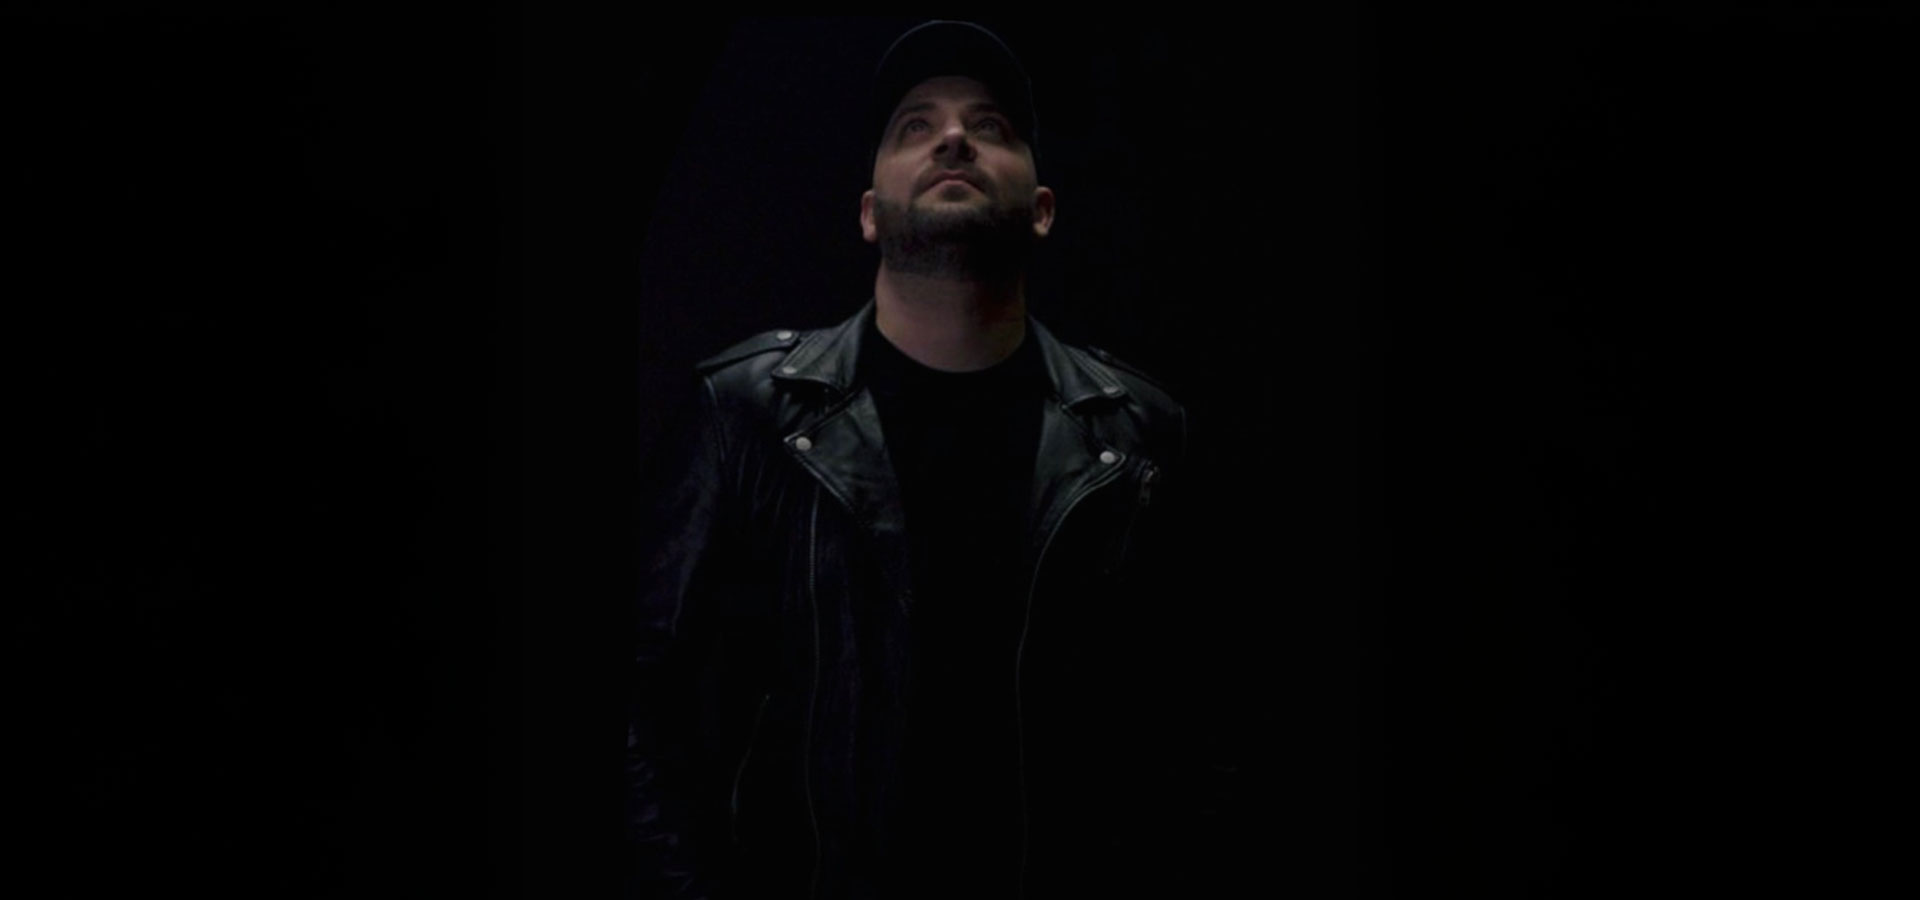
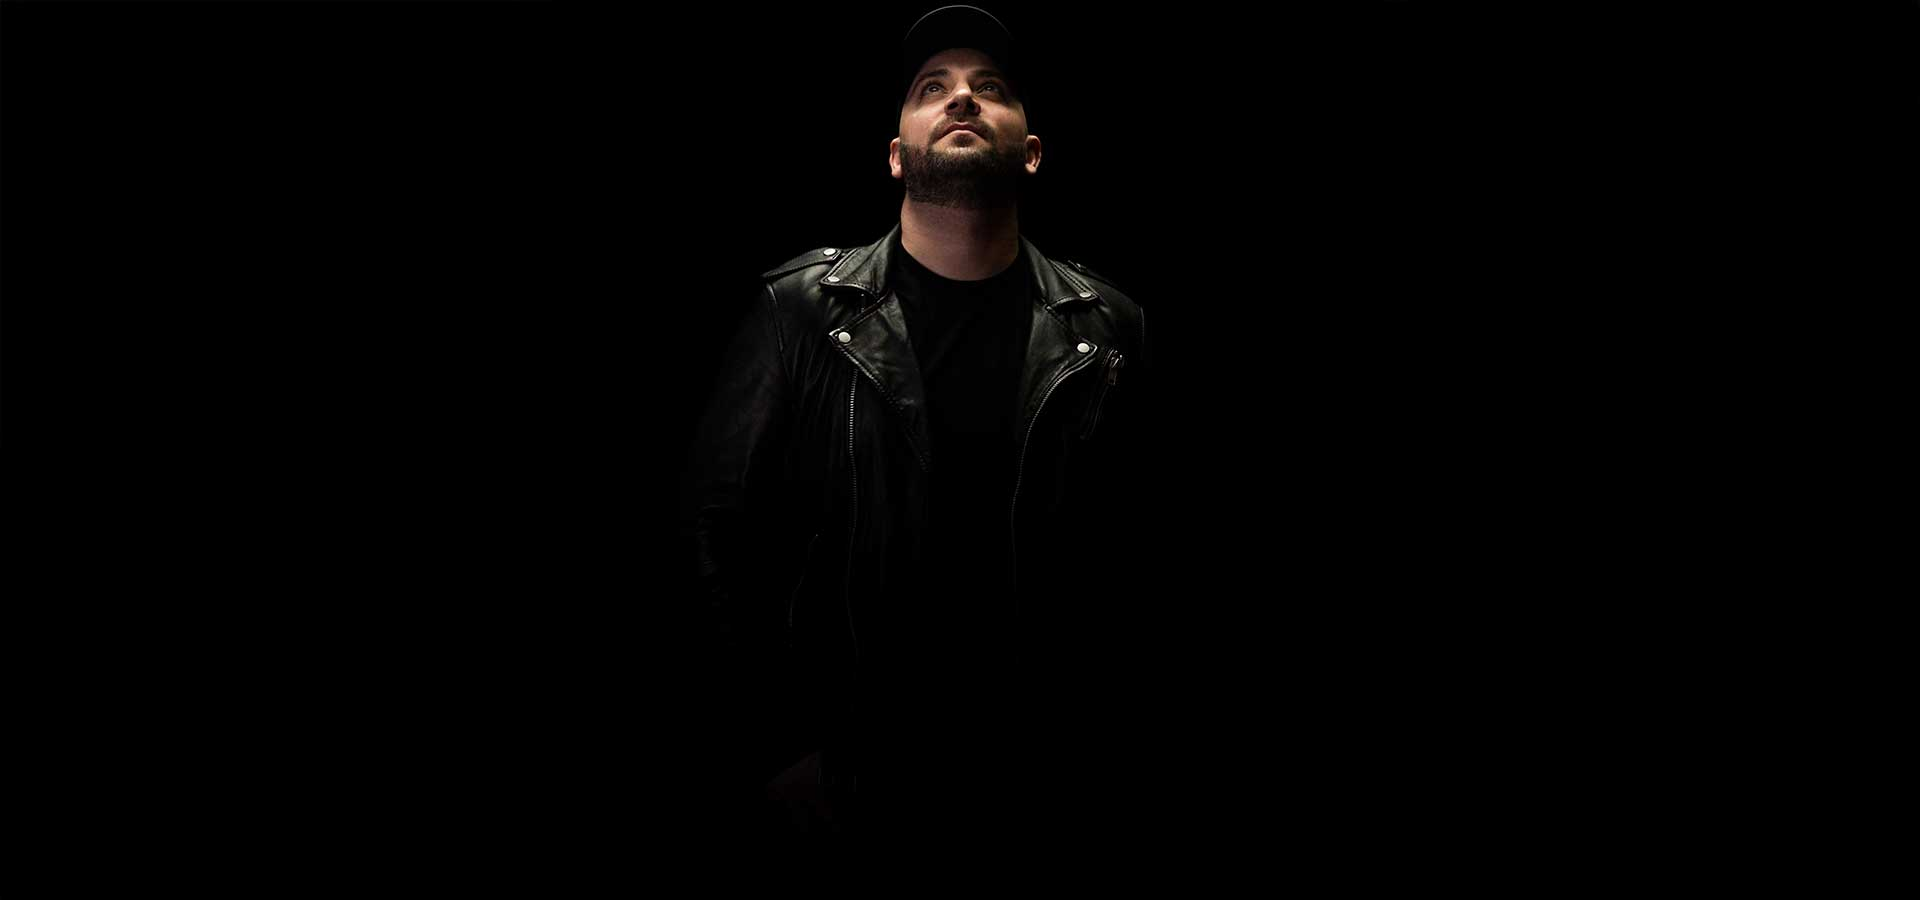
final

Changed region(s): [[0.3438, 0.0622, 0.5938, 0.5911], [0.4688, 0.0, 0.5, 0.0311]]

diff --git a/index.html b/index.html
@@ -169,7 +169,7 @@
                 <img src="/image/icon_50x50@3x.png" class="img-fluid" style="width: 1em;">
               </div>
             </div>
-            <p class="text-gray font-1">Připravím vám výjimečný a nezapomenutelný zážitek, tak se pohodlně usaďte. Stanete se součástí Obinovi magie 21. století!
+            <p class="text-gray font-1" style="margin-bottom: 4em;">Připravím vám výjimečný a nezapomenutelný zážitek, tak se pohodlně usaďte. Stanete se součástí Obinovi magie 21. století!
             </p>
             <div class="d-flex flex-column">
               <div class="row row-cols-1 row-cols-md-3" style="margin-top: -60px;">
@@ -229,7 +229,7 @@
             <div class="row row-cols-1 row-cols-md-3">
               <div class="col my-3">
                 <div class="container">
-                  <img src="image/gallery_600x400_1.jpg" class="img-fluid">
+                  <img src="image/gallery_600x400_9.jpg" class="img-fluid">
                 </div>
               </div>
               <div class="col my-3">
@@ -239,17 +239,17 @@
               </div>
               <div class="col my-3">
                 <div class="container">
-                  <img src="image/gallery_600x400_3.jpg" class="img-fluid">
-                </div>
-              </div>
-              <div class="col my-3">
-                <div class="container">
-                  <img src="image/gallery_600x400_4.jpg" class="img-fluid">
+                  <img src="image/gallery_600x400_1.jpg" class="img-fluid">
                 </div>
               </div>
               <div class="col my-3">
                 <div class="container">
                   <img src="image/gallery_600x400_5.jpg" class="img-fluid">
+                </div>
+              </div>
+              <div class="col my-3">
+                <div class="container">
+                  <img src="image/gallery_600x400_4.jpg" class="img-fluid">
                 </div>
               </div>
               <div class="col my-3">
@@ -269,7 +269,7 @@
               </div>
               <div class="col my-3">
                 <div class="container">
-                  <img src="image/gallery_600x400_9.jpg" class="img-fluid">
+                  <img src="image/gallery_600x400_3.jpg" class="img-fluid">
                 </div>
               </div>
             </div>
@@ -381,18 +381,17 @@
       </section>
 
       <section class="section position-relative"
-        style="background-image: url(image/banner_1920x900_3.jpg); padding: 20em 1em 5em 1em;">
+        style="background-image: url(image/banner_1920x900_3.jpg);background-size: auto;background-position: top;padding: 20em 1em 5em 1em;background-repeat: no-repeat;">
         <div class="r-container">
           <div id="kontakt" class="d-flex flex-column position-relative" style="z-index: 2;">
             <div class="text-center">
-              <h3 class="font-3 accent-color">RYCHLÁ POPTÁVKA</h3>
+              <h3 class="font-3 accent-color">POPTÁVKA</h3>
               <div class="mb-2 w-100">
                 <div class="divider accent-color mx-auto">
                   <img src="/image/icon_50x50@3x.png" class="img-fluid" style="width: 1em;">
                 </div>
               </div>
-              <p class="text-gray font-1">Chtěli byste se domluvit nebo máte jakýkoli dotaz? Prosím, napište mi zprávu
-                nebo zavolejte na telefonní číslo.</p>
+              <p class="text-gray font-1">Chtěli byste se domluvit nebo máte jakýkoli dotaz? Prosím, napište mi zprávu nebo zavolejte na telefonní číslo.</p>
             </div>
             <div class="text-start">
               <div class="success_msg toast align-items-center w-100 shadow-none border-success mb-3" role="alert"
@@ -484,11 +483,11 @@
                   </div>
                   <div class="d-flex flex-row gap-3 align-items-center">
                     <i class="fa-solid fa-phone accent-color"></i>
-                    <span class="text-gray font-1">+420 777 504 022</span>
+                    <a href="tel:00420777504022"><span class="text-gray font-1">+420 777 504 022</span></a>
                   </div>
                   <div class="d-flex flex-row gap-3 align-items-center">
                     <i class="fa-solid fa-envelope accent-color"></i>
-                    <span class="text-gray font-1">info@obinn.cz</span>
+                    <a href="mailto:info@obinn.cz"><span class="text-gray font-1">info@obinn.cz</span></a>
                   </div>
                   <div class="d-flex flex-row gap-3 align-items-center">
                     <i class="fa-solid fa-globe-americas accent-color"></i>
